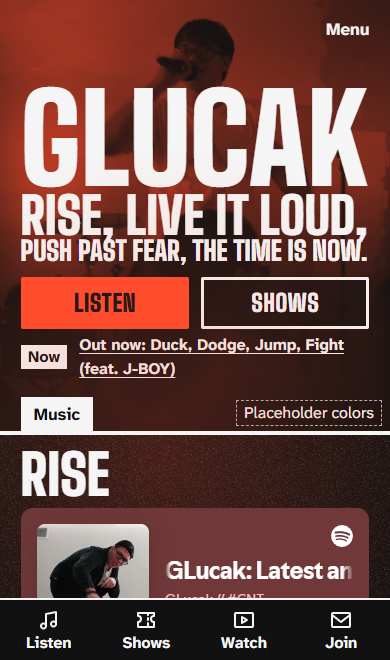
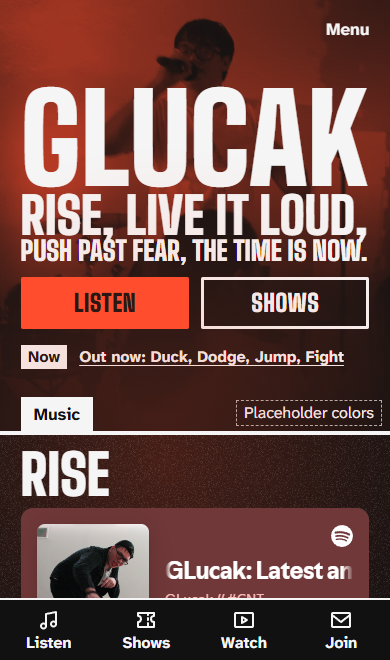
D33: titles exactly as on Spotify, artists line for collaborators
Spotify titles carry no feat./w/ (Desktop, 70461b5). RISE and the Music strip show the
artists line ('GLucak, J-BOY'); the Now line is the title only. Copy, DESIGN.md, prototype and
ASK GABE item 7 (Spotify lists three albums) updated. Home 5.61 screens, recorded.

Changed region(s): [[0.1846, 0.5152, 0.8923, 0.5758]]

diff --git a/prototype/index.html b/prototype/index.html
@@ -74,7 +74,7 @@
             <a class="btn btn-line" href="#shows">Shows</a>
           </div>
           <!-- Newest release out today (src/data/releases.json), copy from docs/copy/home.md. Next show instead if within 14 days. -->
-          <p class="now"><span class="now-tag">Now</span> <a href="https://wingsmusic.lnk.to/DuckDodgeJumpFight" rel="noopener">Out now: Duck, Dodge, Jump, Fight (feat. J-BOY)</a></p>
+          <p class="now"><span class="now-tag">Now</span> <a href="https://wingsmusic.lnk.to/DuckDodgeJumpFight" rel="noopener">Out now: Duck, Dodge, Jump, Fight</a></p>
         </div>
         <p class="ph-chip hero-chip">Placeholder colors</p>
       </section>
@@ -98,7 +98,8 @@
           <article class="release">
             <img class="cover" src="assets/cover.svg" alt="Placeholder for the Duck, Dodge, Jump, Fight cover art" width="400" height="400" loading="lazy">
             <div class="release-text">
-              <h3>Duck, Dodge, Jump, Fight (feat. J-BOY)</h3>
+              <h3>Duck, Dodge, Jump, Fight</h3>
+              <p class="muted release-artists">GLucak, J-BOY</p>
               <p class="muted">Latest release. Listen on:</p>
               <p class="listen-on">
                 <a href="https://wingsmusic.lnk.to/DuckDodgeJumpFight" rel="noopener">every platform</a>

diff --git a/prototype/styles.css b/prototype/styles.css
@@ -310,7 +310,7 @@ html[data-hero='b'] .slot img { width: 100%; height: 100%; object-fit: cover; ob
 .cover { width: 96px; height: 96px; flex: none; }
 /* --step-2, not --step-3: real titles carry features ("Duck, Dodge, Jump, Fight (feat. J-BOY)") and the credit never drops. */
 .release h3 { font-family: var(--font-display); font-weight: 900; font-size: var(--step-2); line-height: 1; text-transform: uppercase; text-wrap: balance; }
-.release .muted { font-size: var(--step--1); line-height: 1.3; }
+.release .muted { font-size: var(--step--1); line-height: 1.2; }
 .listen-on { display: flex; flex-wrap: wrap; align-items: center; column-gap: var(--space-m); font-size: var(--step--1); font-weight: 700; margin-top: -0.25rem; }
 .listen-on a { display: inline-flex; align-items: center; min-height: 48px; text-underline-offset: 3px; }
 

diff --git a/DESIGN.md b/DESIGN.md
@@ -215,7 +215,7 @@ with focus moved in, Escape and link tap close it. Shop slot: one nav entry, off
 - Slogan, exact text. Phones: two fitted lines, "Rise, Live It Loud," / "Push Past Fear, The Time Is Now." From 900px: one fitted line.
 - **Listen** (solid) and **Shows** (outline), 52px tall. Listen goes to the player, Shows to `#shows`.
 - **Now line:** "Now" tag + one link. See section 7. No ticker: it never moves. Release wording (copy, `docs/copy/home.md`):
-  **"Out now: {title}"**, the full title as credited, features included (today "Out now: Duck, Dodge, Jump, Fight (feat. J-BOY)"),
+  **"Out now: {title}"**, the title exactly as on Spotify (today "Out now: Duck, Dodge, Jump, Fight"; the artists line sits right below in RISE, D33),
   linked to that release's `link`. Long titles wrap to two lines inside the 48px line (measured: the player stays put).
 
 **1. RISE, tab Music.** Phrase at 3.5rem on phones; huge in a left column from 900px. The official embed at exactly **352px**,
@@ -224,8 +224,10 @@ full column width, with its height reserved. Under it: **Play full songs on Spot
 the playlist link: logged-out fans, most of them in Instagram's in-app browser, get 30-second previews in the embed, and this is
 the way to full songs, so it earns a button. Outline, not solid: the accent stays on Listen. Then **Listen everywhere**, a text
 link. It sits below the player, so the player's position doesn't move. Then the latest release: cover 96px
-(160px wide screens) as made, title, "Latest release. Listen on:", two links. The title is `--step-2` (not `--step-3`), `text-wrap:
-balance`: real titles carry features and the credit never drops, so "Duck, Dodge, Jump, Fight (feat. J-BOY)" takes two lines at 390.
+(160px wide screens) as made, title, then the **artists line** when the release has more than one artist (D33): the release's
+`artists` exactly as Spotify shows them ("GLucak, J-BOY"), body face, `muted`, no "feat."; a solo release has no line. Then
+"Latest release. Listen on:", two links. The title is `--step-2` (not `--step-3`), `text-wrap: balance`, so long titles take two
+lines at 390. The same artists line goes under each title in the Music page's release strip.
 **Every platform** and **Listen everywhere** both go to that release's `link`. Then the optional **From Gabe** quote (below).
 
 **From Gabe (D21), the one quote style, every band that has one.** After the band's main content, never above the player:
@@ -378,7 +380,7 @@ output, http(s) links only, with the `<script>` and `' OR 1=1 --` tests.
 | Text over the **real** photos, from pixels (99.5th percentile background, text hidden) | A: name **5.39:1**, slogan **6.19:1** (need 3), Menu **10.84:1**, Now **13.63:1** (need 4.5; the real two-line Now line). B: name 16.85, slogan 15.90, Menu 17.32, Now 14.06. A on the second era: name 5.34, slogan 5.95, Menu 10.35, Now 11.37. PUSH PAST FEAR heading over the Paslier still: 7.68:1 |
 | Tap targets, text size | 36 targets, none under 48px (Spotify button 48px, both quote credits 48px). Smallest text 16px. No sideways scroll at 320, 390, 1280 with the long title and quotes |
 | Solid pairs, both eras | Lowest 5.71:1 |
-| Home height at 390x660 | **A 3795px = 5.75 screens, 5.58 without the prototype note** (cap 5.6, boss 2026-11-05). B 5.84 / 5.67. Empty shows 5.60 / 5.43. With both real quotes (R1, L2), the real release title and Now line. Committed baseline was 5.21 / 5.07 (2026-11-03 report; the 5.13 in the old table was an earlier run). What added height: the IDENTITY block (date, pre-save, mark beside the word), both quotes (132 and 76px, compact style), the Spotify button and the footer credits; what took it back: D23 (mission line gone), the mark beside IDENTITY instead of above (about 60px), the compact quote (tag in the first line, credit inline) |
+| Home height at 390x660 | **A 3812px = 5.61 without the prototype note after D33's artists line** (3px over the cap 5.6; accepted, since the collaborator credit is never dropped; the built site measures 5.25). Before D33: A 3795px = 5.75 screens, 5.58 without the note (cap 5.6, boss 2026-11-05). B 5.84 / 5.67. Empty shows 5.60 / 5.43. With both real quotes (R1, L2), the real release title and Now line. Committed baseline was 5.21 / 5.07 (2026-11-03 report; the 5.13 in the old table was an earlier run). What added height: the IDENTITY block (date, pre-save, mark beside the word), both quotes (132 and 76px, compact style), the Spotify button and the footer credits; what took it back: D23 (mission line gone), the mark beside IDENTITY instead of above (about 60px), the compact quote (tag in the first line, credit inline) |
 | Reduced motion | Emulated with `Emulation.setEmulatedMedia`: `document.getAnimations()` empty, headings visible. Footer switch: also empty. The IDENTITY count is text, not motion |
 | Flash | **By construction:** the only loop is one 24s opacity and transform drift (opacity .68 to .88), so it cannot reach 3 flashes a second. Supporting sample only, too slow to detect a 3 Hz flash on its own: 87 and 95 frames over 26s, largest change in mean luminance 0.0001 against WCAG's 0.10, on both heroes with the real photos. Most moving things on screen at once, brisk scroll: 1 |
 | CSP and errors | None under the real CSP (WebP served as `image/webp`). Also opens from disk |

diff --git a/docs/copy/home.md b/docs/copy/home.md
@@ -32,7 +32,7 @@ Sources: titles, dates and links come from the release data (social-content.md s
 | Line under the cover and title | **Latest release. Listen on:** (keep as is) | 26 |
 
 Before 11-13 the title above it reads "Duck, Dodge, Jump, Fight"; from 11-13 "Who I Am". The line itself does not change.
-Title as credited on Spotify, features included, e.g. "Duck, Dodge, Jump, Fight (feat. J-BOY)". Never drop a collaborator credit.
+Title exactly as on Spotify ("Duck, Dodge, Jump, Fight"), with the artists line under it as Spotify shows them ("GLucak, J-BOY") when there's more than one artist (D33). Never drop a collaborator credit.
 
 ### From Gabe (D21), RISE: under the latest release, after the links
 
@@ -156,7 +156,7 @@ words and ends on the action, so no copy change. The slogan sits below it as fix
 4. The sign-up says "Get the next show and every new song first." Will people on your email list hear before everyone else? If not, we'll say "right away".
 5. The home page uses the first sentence of your Spotify bio, which says "Epilepsy survivor". Keep it on the home page, or only on the About page?
 6. Can we quote two of your posts on the home page, word for word, with credit and a link? "God will always be with you, and will never leave you in the valley. Trust me, I know." (Instagram, Sep 30) under the latest release, and "Hope to see you there!" (YouTube, Sep 8) under the shows.
-7. Your bio says "two albums", but YouTube lists five albums and EPs. Which ones are albums, and what year did each come out (GLucak, Fall Down 7 Stand Up 8, Anomaly, You're Not Alone EP)?
+7. Your bio says "two albums", but Spotify has three: GLucak (Deluxe Edition), Fall Down 7, Stand Up 8 (A Remix Album) and Time is at the Essence. Which should the site call albums? And are "Anomaly" and the "You're Not Alone" EP releases we should list?
 Later, not needed for launch:
 8. Can we show the IDENTITY tracklist you posted on Oct 24? If so, please check the spelling of every title.
 9. Patreon: what is it for, and do you want a short line next to the link?

diff --git a/docs/copy/music.md b/docs/copy/music.md
@@ -46,17 +46,17 @@ Rows today (title / date line / link label), from `releases.json`:
 | IDENTITY | Out Aug 13, 2027 | Pre-save (this one also has the IDENTITY block, section 3) |
 | Scenic Route | Out Jan 15, 2027 | Pre-save |
 | Who I Am | Out Nov 13, 2026 | Pre-save (becomes Listen on 11-13) |
-| Duck, Dodge, Jump, Fight (feat. J-BOY) | Sep 4, 2026 | Listen |
-| Rapping Like (Oh Yeah) (w/ Micah Haun) | Jul 24, 2026 | Listen |
+| Duck, Dodge, Jump, Fight / artists line "GLucak, J-BOY" | Sep 4, 2026 | Listen |
+| Rapping Like (Oh Yeah) / artists line as Spotify shows them (Micah Haun) | Jul 24, 2026 | Listen |
 | One and Done | May 22, 2026 | Listen |
 | Earned Your Stripes (Live at Riverside) | May 15, 2026 | Listen |
 | Go | Mar 20, 2026 | Listen |
-| GLucak {exact Spotify album title, Desktop checks} | none (date unknown) | Listen |
+| GLucak (Deluxe Edition) | Dec 19, 2025 | Listen |
 | Fall Down 7, Stand Up 8 (A Remix Album) | none | Listen |
 | Anomaly | none | Listen |
 | You're Not Alone (EP) | none | Listen |
 
-Spotify's credit wins (D31). Rapping Like reads "(w/ Micah Haun)" on Spotify, and the Desktop corrects releases.json. Go stays "Go" unless Spotify credits Emily Mae. Never drop a collaborator credit.
+Spotify wins (D31, D33). Spotify's titles carry no "feat." or "w/"; collaborators are separate artist credits, so the title is exact and the artists line under it shows them as Spotify does. `releases.json` was checked against Spotify (70461b5) and is the source for every title, artist and date. Never drop a collaborator credit.
 
 ---
 

diff --git a/DECISIONS.md b/DECISIONS.md
@@ -92,3 +92,9 @@ Desktop uses even numbers, Laptop odd. Format: number, date, question, ruling, w
   included, Spotify's wording exact ("w/", "feat."). `src/data/releases.json` must match. Our own notes, such as
   "(self-titled)", never show as titles. The Desktop checks every title on Spotify. **Why:** one source, and a
   collaborator's credit is shown the way Spotify shows it.
+- **D33** (2026-11-05, Laptop, amends D31 after the Desktop checked Spotify in 70461b5): Spotify's titles carry no
+  "feat." or "w/"; collaborators are separate artist credits. **Ruling:** the title is exactly Spotify's ("Duck, Dodge,
+  Jump, Fight"). When a release has more than one artist, an **artists line** sits under the title in the RISE release
+  block and the Music release strip, exactly as Spotify lists them ("GLucak, J-BOY"), body face, `muted`; solo
+  releases have none. The Now line shows the title only ("Out now: Duck, Dodge, Jump, Fight"); the credit is right
+  below it. **Why:** Spotify is the one source, and the collaborator stays credited where the release is shown.
